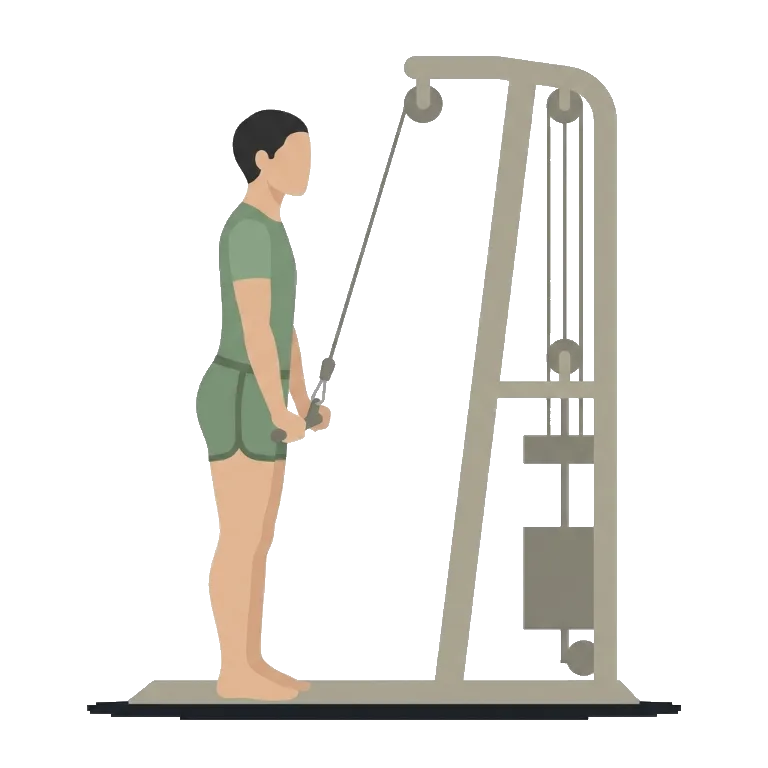
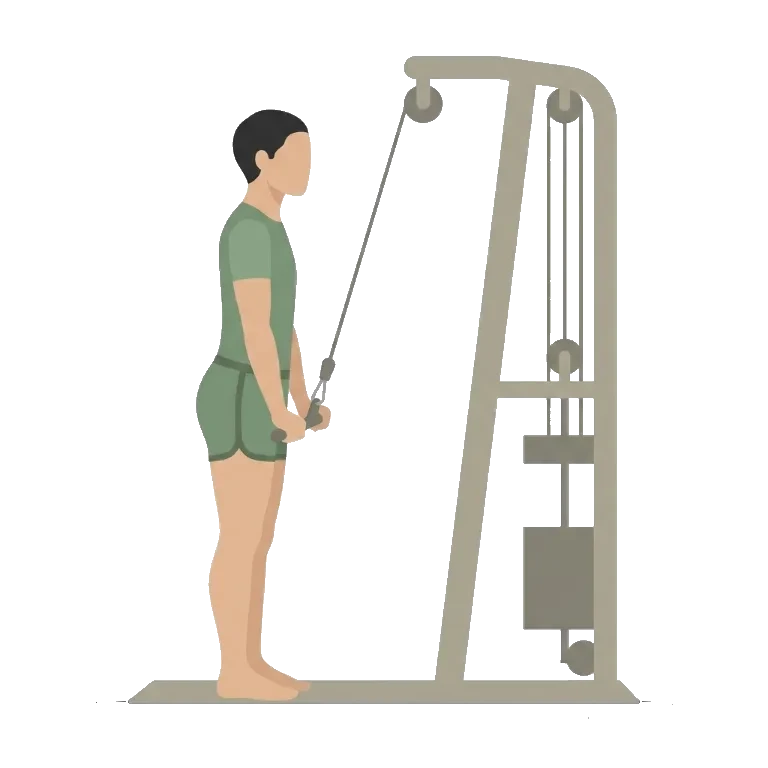
Remove stray black line under triceps-pushdown
The generated figure had a near-black outline along the bottom edge of the
grey machine platform — a background-removal artifact the light-pixel pass
missed. Erased the dark band locally (no regeneration); the platform keeps a
clean edge and the figure/machine are untouched. Bumps the service worker to v22.

Claude-Session: https://claude.ai/code/session_019AqbedViT1ZmWN3hovyGKq

Changed region(s): [[0.0938, 0.9062, 0.9062, 0.9375]]

diff --git a/sw.js b/sw.js
@@ -1,5 +1,5 @@
 // Cache-first app-shell service worker. Bump VERSION on every deploy.
-const VERSION = 'exercises-v21';
+const VERSION = 'exercises-v22';
 const SHELL = [
   './',
   'index.html',